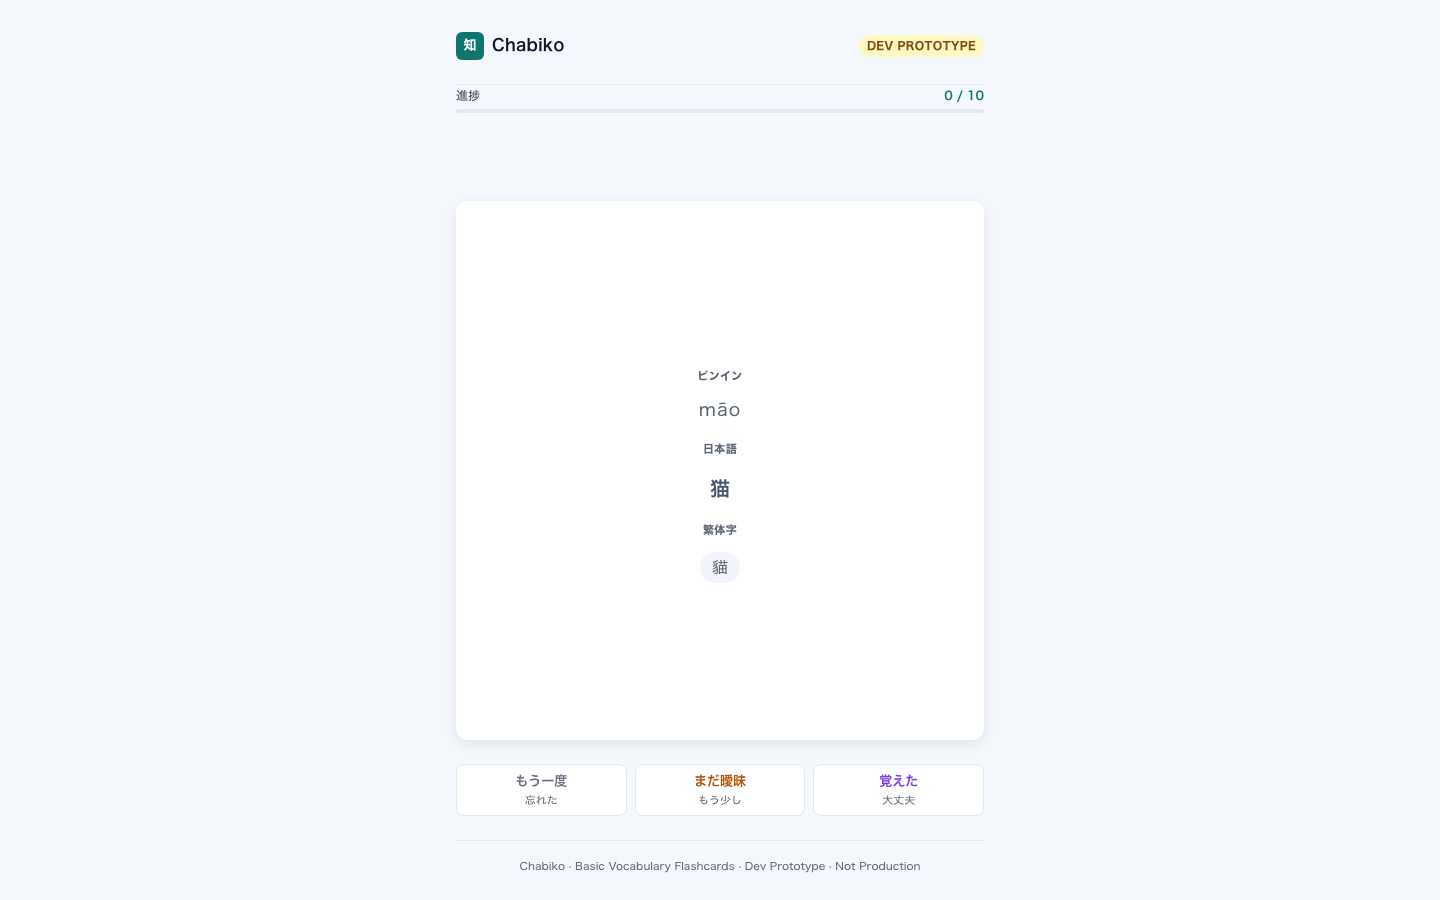
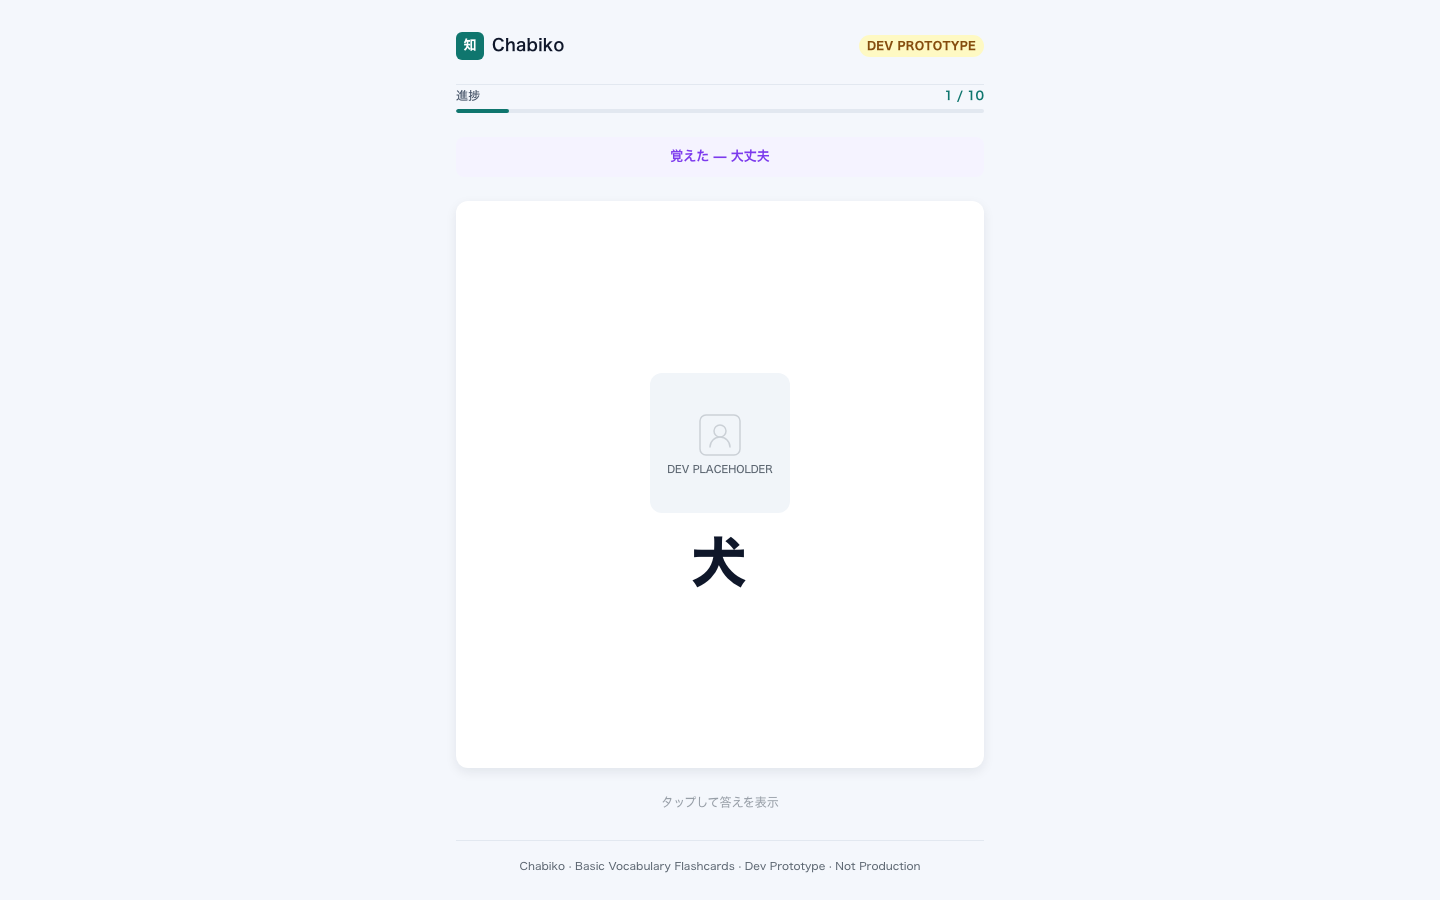
fix(prototype): address Codex P2 findings — assess strip, completion layout, fish simplified
- Keep assessment strip visible across card transitions; clear only when user
  reveals the next card, enabling reliable aria-live announcement.
- Hide the outer .flashcard container on completion so the screen appears
  above the fold on 390×844 viewport.
- Fix third synthetic record: zh="鱼" (simplified), trad="魚" (traditional)
  to correctly demonstrate the simplified/traditional distinction.

diff --git a/docs/design/prototypes/basic-vocabulary-placeholder.html b/docs/design/prototypes/basic-vocabulary-placeholder.html
@@ -662,7 +662,7 @@
   const ALL_WORDS = [
     { zh: "猫",    pinyin: "māo",      ja: "猫",       trad: "貓" },
     { zh: "犬",    pinyin: "quǎn",     ja: "犬",       trad: "犬" },
-    { zh: "魚",    pinyin: "yú",       ja: "魚",       trad: "魚" },
+    { zh: "鱼",    pinyin: "yú",       ja: "魚",       trad: "魚" },
     { zh: "花",    pinyin: "huā",      ja: "花",       trad: "花" },
     { zh: "山",    pinyin: "shān",     ja: "山",       trad: "山" },
     { zh: "水",    pinyin: "shuǐ",     ja: "水",       trad: "水" },
@@ -721,8 +721,6 @@
     revealed = false;
     tapHint.classList.remove("flashcard__hint--hidden");
     assessmentGroup.classList.add("assessment-group--hidden");
-    assessmentStrip.className = "assessment-strip assessment-strip--empty";
-    assessmentStrip.textContent = "";
     flashcardInner.setAttribute("aria-label", "カードをめくる");
 
     updateProgress();
@@ -731,6 +729,9 @@
   /* ─── Reveal ────────────────────────────────────────────────── */
   function revealCard() {
     if (revealed) return;
+    // Clear previous assessment strip now, before showing next card
+    assessmentStrip.className = "assessment-strip assessment-strip--empty";
+    assessmentStrip.textContent = "";
     revealed = true;
     flashcardBack.classList.add("flashcard-back--visible");
     flashcardFront.style.display = "none";
@@ -776,8 +777,8 @@
 
   /* ─── Completion ────────────────────────────────────────────── */
   function showCompletion() {
-    // Hide flashcard & assessment
-    flashcardInner.style.display = "none";
+    // Hide the entire outer flashcard container (removes flex/min-height space)
+    document.querySelector(".flashcard").style.display = "none";
     tapHint.classList.add("flashcard__hint--hidden");
     assessmentGroup.classList.add("assessment-group--hidden");
     assessmentStrip.className = "assessment-strip assessment-strip--empty";
@@ -803,7 +804,7 @@
     currentIndex = 0;
     results = [];
     completionScreen.classList.remove("completion--visible");
-    flashcardInner.style.display = "flex";
+    document.querySelector(".flashcard").style.display = "flex";
     assessmentStrip.className = "assessment-strip assessment-strip--empty";
     assessmentStrip.textContent = "";
     renderCard();
